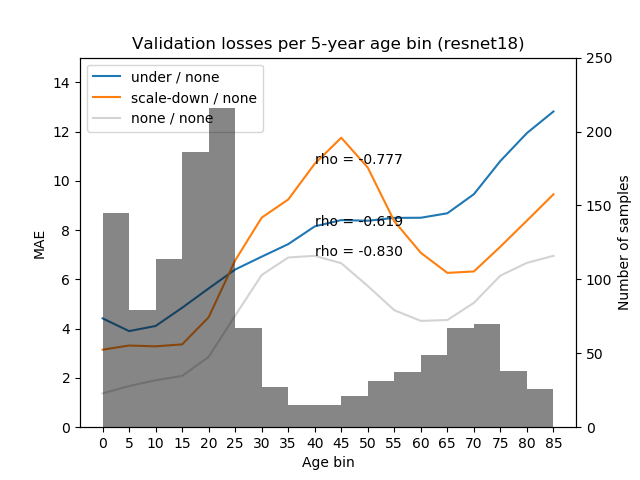
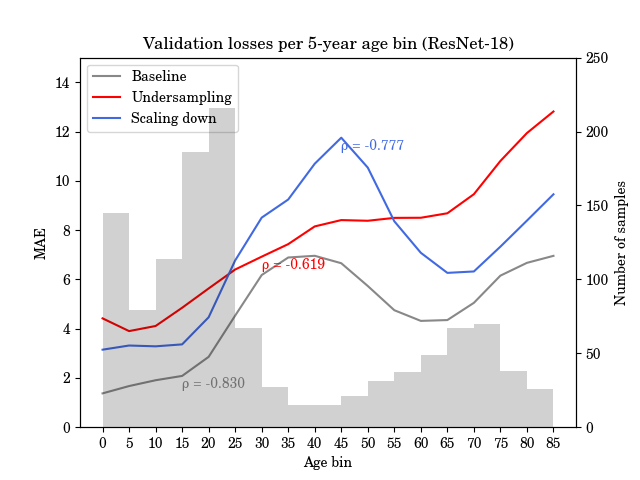
Finish prettifying plots

diff --git a/age_prediction/plot_results.py b/age_prediction/plot_results.py
@@ -64,7 +64,7 @@ def plot_losses_over_time(results, fname):
     fig.savefig(f"{FIGURES_DIR}/{fname}")
     plt.close(fig)
 
-def plot_val_losses(all_results, arch, job_descs, fname, include_baseline=True):
+def plot_val_losses(all_results, arch, job_descs, fname):
     def mae(bin, df):
         subjects_in_bin = df[(df['age'] // 5) == bin]
         assert len(subjects_in_bin) > 0
@@ -72,7 +72,8 @@ def plot_val_losses(all_results, arch, job_descs, fname, include_baseline=True):
     
     fig, ax = plt.subplots()
     ax2 = ax.twinx()
-    ax.set_title(f"Validation losses per 5-year age bin ({arch})")
+    display_arch = {'resnet18': "ResNet-18", 'vgg8': "VGG8"}[arch]
+    ax.set_title(f"Validation losses per 5-year age bin ({display_arch})")
     ax.set_xlabel("Age bin")
     ax.set_ylabel("MAE")
     ax.set_ylim(0, 15)
@@ -85,11 +86,10 @@ def plot_val_losses(all_results, arch, job_descs, fname, include_baseline=True):
     df = list(all_results.values())[0]['val_preds']
     bin_counts = [sum((df['age'] // 5) == bin) for bin in bins]
 
-    if include_baseline:
-        job_descs += ['none / none']
-    for desc in job_descs:
-        full_desc = f"{arch} / {desc}"
-        df = all_results[full_desc]['val_preds']
+    job_descs.insert(0, ('none / none', "Baseline"))
+    for i, (desc, label) in enumerate(job_descs):
+        key = f"{arch} / {desc}"
+        df = all_results[key]['val_preds']
         losses_per_bin = np.array([mae(bin, df) for bin in bins])
         
         # Smooth losses using a Gaussian kernel
@@ -102,13 +102,17 @@ def plot_val_losses(all_results, arch, job_descs, fname, include_baseline=True):
 
         ax.set_xticks(display_bins)
         is_baseline = (desc == 'none / none')
-        ax.plot(display_bins, smoothed_losses, label=desc, color=('lightgray' if is_baseline else None))
-
+        color = '#888888' if is_baseline else ['red', 'royalblue'][i-1]
+        ax.plot(display_bins, smoothed_losses, label=label, color=color)
+        
         pcorr, _ = stats.pearsonr(losses_per_bin, bin_counts)
-        ax.annotate(f"rho = {pcorr:.3f}", (40, smoothed_losses[8]), color='black')
+        anno_x = [15, 30, 45][i]
+        anno_y = smoothed_losses[anno_x//5]-.5
+        ax.annotate(f"ρ = {pcorr:.3f}", (anno_x, anno_y), color=color)
     
     ax.legend()
-    ax2.hist(display_bins, bins=display_bins, weights=bin_counts, color='#0f0f0f80')
+    bin_counts = [sum((df['age'] // 5) == bin) for bin in bins]
+    ax2.hist(display_bins, bins=display_bins, weights=bin_counts, color='#0f0f0f30')
     fig.savefig(f"{FIGURES_DIR}/{fname}")
     plt.close(fig)
 
@@ -118,16 +122,18 @@ def main():
 
     all_results = load_results()
 
+    plt.rcParams.update({'font.family': 'C059'})
+
     for results in all_results.values():
         job_id = results['config']['job_id']
         plot_losses_over_time(results, f"losses_over_time_{job_id}.png")
 
     for arch in ('resnet18', 'vgg8'):
-        plot_val_losses(all_results, arch, ['under / none', 'scale-down / none'], f"val_losses_{arch}_under.png")
-        plot_val_losses(all_results, arch, ['over / none', 'scale-up / none'], f"val_losses_{arch}_over.png")
-        plot_val_losses(all_results, arch, ['none / inv', 'none / inv + lds'], f"val_losses_{arch}_inv.png")
-        plot_val_losses(all_results, arch, ['none / sqrt_inv', 'none / sqrt_inv + lds'], f"val_losses_{arch}_sqrt_inv.png")
-    
+        plot_val_losses(all_results, arch, [('under / none', "Undersampling"), ('scale-down / none', "Scaling down")], f"val_losses_{arch}_under.png")
+        plot_val_losses(all_results, arch, [('over / none', "Oversampling"), ('scale-up / none', "Scaling up")], f"val_losses_{arch}_over.png")
+        plot_val_losses(all_results, arch, [('none / inv', "Inverse weighting"), ('none / inv + lds', "Inverse weighting + LDS")], f"val_losses_{arch}_inv.png")
+        plot_val_losses(all_results, arch, [('none / sqrt_inv', "Square root-inverse weighting"), ('none / sqrt_inv + lds', "Square root-inverse weighting + LDS")], f"val_losses_{arch}_sqrt_inv.png")
+
     print("Done")
 
 if __name__ == '__main__':

diff --git a/age_prediction/dataset.py b/age_prediction/dataset.py
@@ -11,6 +11,7 @@ def prepare_weights(df, reweight, lds, lds_kernel, lds_ks, lds_sigma):
         return None
     
     bin_counts = df['agebin'].value_counts()
+    # num_per_label[i] = the number of subjects in the age bin of the ith subject in the dataset
     if reweight == 'inv':
         num_per_label = [bin_counts[bin] for bin in df['agebin']]
     elif reweight == 'sqrt_inv':
